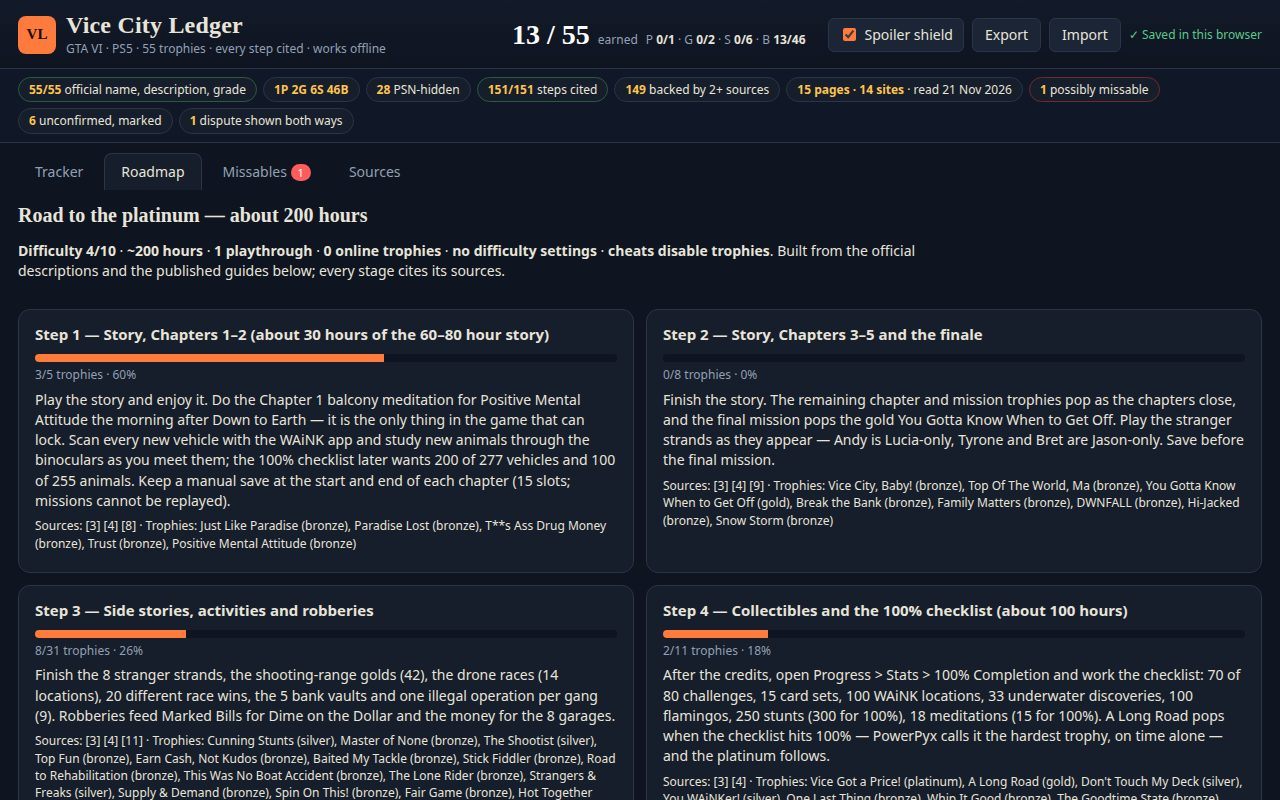
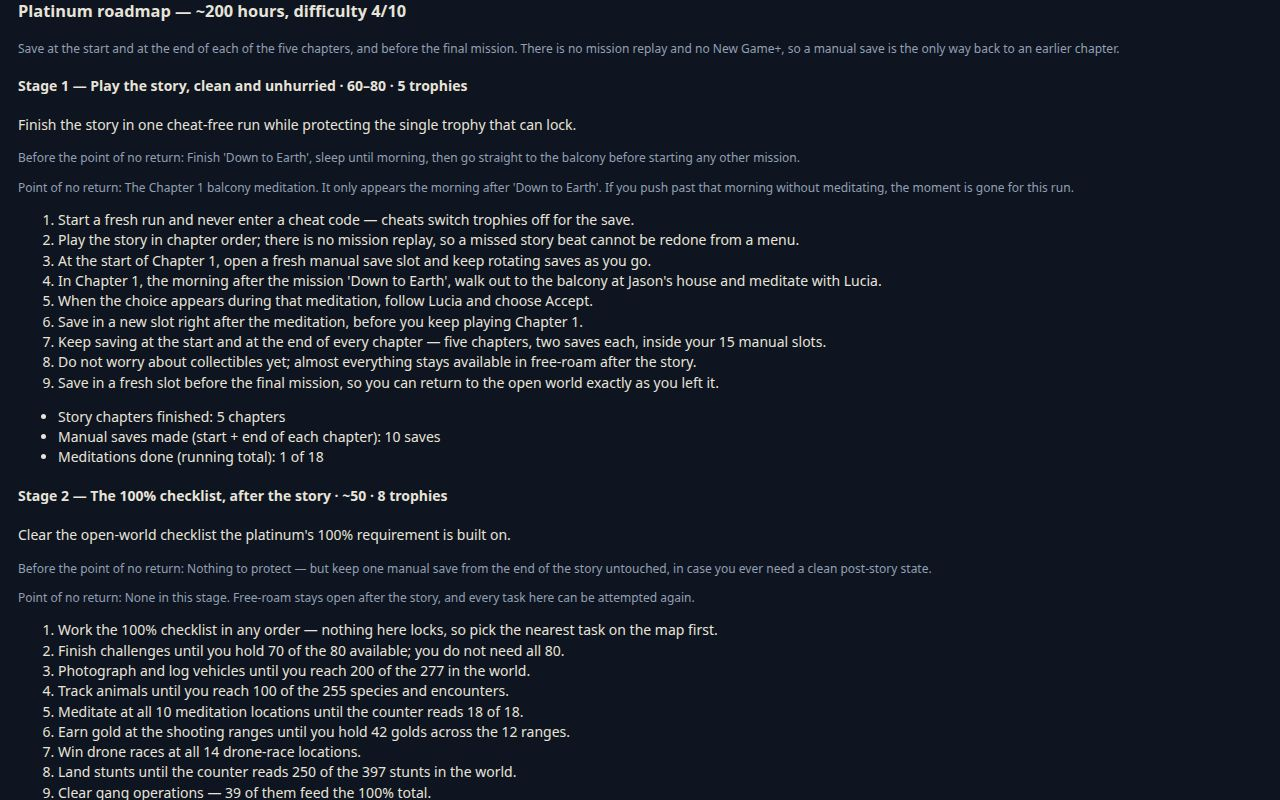
Round 2 fix: re-shot screenshots in-session + new roadmap data module

Changed region(s): [[0.0, 0.0, 1.0, 1.0]]

diff --git a/app/js/roadmap-data.js b/app/js/roadmap-data.js
@@ -1,0 +1,52 @@
+// Roadmap detail: loads the platinum roadmap data and paints one card per
+// stage into the detail panel below the existing stage cards. The module
+// keeps its own fetched copy so a slow or failed fetch leaves the page
+// usable — the tracker and the built-in stage cards still render.
+let roadmapCache = null;
+
+async function loadRoadmap() {
+  if (roadmapCache) return roadmapCache;
+  const res = await fetch('data/roadmap.json');
+  if (!res.ok) throw new Error('roadmap.json ' + res.status);
+  roadmapCache = await res.json();
+  return roadmapCache;
+}
+
+function textEl(tag, text, cls) {
+  const el = document.createElement(tag);
+  if (cls) el.className = cls;
+  el.textContent = text;
+  return el;
+}
+
+export async function renderRoadmapDetail() {
+  const host = document.getElementById('roadmapDetail');
+  if (!host) return;
+  let doc;
+  try {
+    doc = await loadRoadmap();
+  } catch {
+    host.append(textEl('p', 'Roadmap detail could not be loaded.', 'srcNote'));
+    return;
+  }
+  host.replaceChildren();
+  host.append(textEl('h3', 'Platinum roadmap — ' + doc.hoursTotal + ' hours, difficulty ' + doc.difficulty));
+  host.append(textEl('p', doc.saveDiscipline.rule + ' ' + doc.saveDiscipline.why, 'srcNote'));
+  for (const stage of doc.stages) {
+    const card = document.createElement('article');
+    card.className = 'roadmapDetailCard';
+    card.append(textEl('h4', stage.title + ' · ' + stage.hours + ' · ' + stage.trophies + ' trophies'));
+    card.append(textEl('p', stage.goal));
+    card.append(textEl('p', 'Before the point of no return: ' + stage.beforeIt, 'srcNote'));
+    card.append(textEl('p', 'Point of no return: ' + stage.pointOfNoReturn, 'srcNote'));
+    const steps = document.createElement('ol');
+    for (const step of stage.steps) steps.append(textEl('li', step));
+    card.append(steps);
+    const checks = document.createElement('ul');
+    for (const c of stage.checklist) {
+      checks.append(textEl('li', c.label + ': ' + c.target + ' ' + c.unit));
+    }
+    card.append(checks);
+    host.append(card);
+  }
+}

diff --git a/app/index.html b/app/index.html
@@ -72,6 +72,7 @@
       <p><b>Difficulty 4/10</b> · <b>~200 hours</b> · <b>1 playthrough</b> · <b>0 online trophies</b> · <b>no difficulty settings</b> · <b>cheats disable trophies</b>. Built from the official descriptions and the published guides below; every stage cites its sources.</p>
     </div>
     <div id="roadmapStages" class="roadmapStages"></div>
+    <div id="roadmapDetail" class="roadmapDetail"></div>
   </section>
 
   <section id="view-missables" class="view" hidden>
@@ -88,5 +89,6 @@
 </footer>
 
 <script type="module" src="js/main.js"></script>
+<script type="module" src="js/roadmap-data.js"></script>
 </body>
 </html>

diff --git a/app/js/views.js b/app/js/views.js
@@ -3,6 +3,7 @@
 // from the loaded data at render time, so the strip can never disagree with
 // the guide underneath it.
 import { STAGE_LABELS, spoilerMasks, stageProgress, nextUpQueue } from './filters.js';
+import { renderRoadmapDetail } from './roadmap-data.js';
 
 export function escapeHtml(s) {
   return String(s)
@@ -208,6 +209,7 @@ export function renderRoadmap(doc, earned) {
       <p class="srcNote">Sources: ${stage.sources.map((n) => `[${n}]`).join(' ')} · Trophies: ${escapeHtml(names)}</p>`;
     wrap.append(card);
   }
+  renderRoadmapDetail();
 }
 
 export function renderMissables(doc) {
